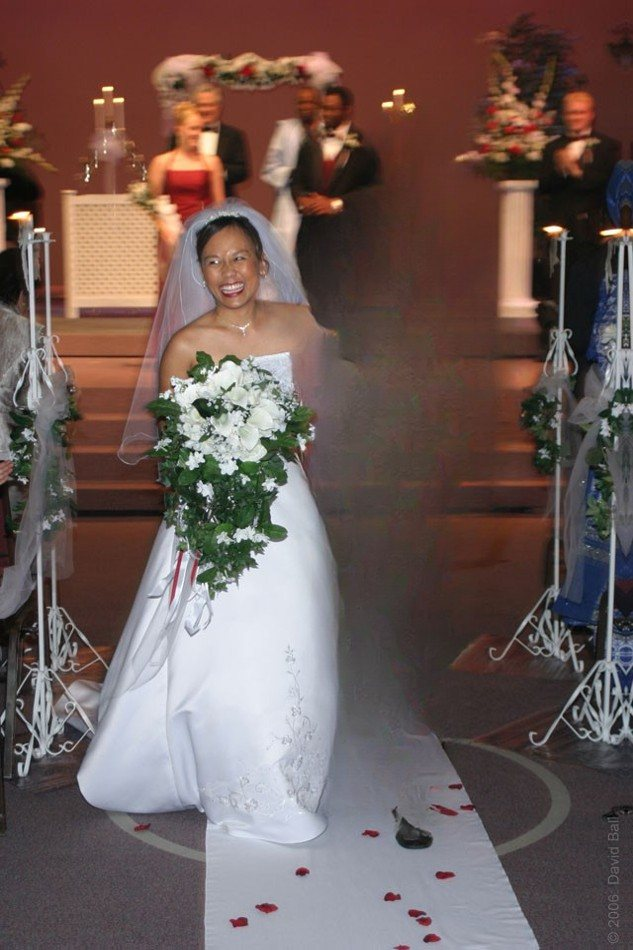
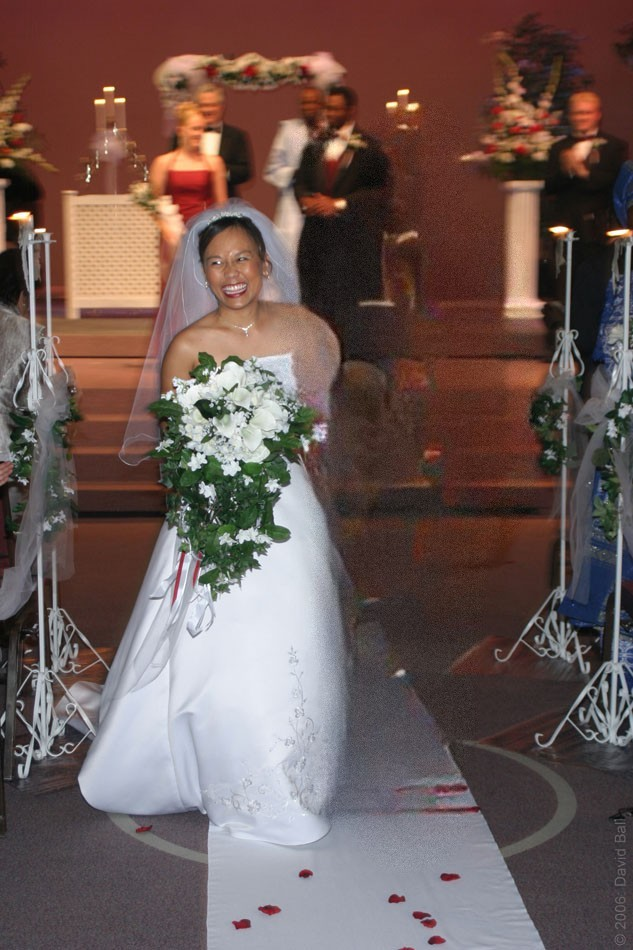
Rebuild missing background when erasing a person
Erase now runs LaMa on a square crop around the person at its 512 px
training size, then scales the fill up, matches the photo's grain and
blends it in. Lines and textures (pavement, pillars, walls) now carry
through the gap instead of smearing.

- Compared LaMa, MAT, MI-GAN and FcF on all four photos; LaMa was the
  only one that didn't invent objects
- Close-up can now be erased; silhouette kept as its own option
- New tools/make_proof.py rebuilds the proof images
- Updated proof page, case study, triage rules and prototype photos

Claude-Session: https://claude.ai/code/session_01CUi5X4udzphoF6QNiPwVRq

diff --git a/tools/erase_person.py b/tools/erase_person.py
@@ -5,7 +5,9 @@ Pipeline
   2. Pick the person: by position (left to right) for this demo. In the app,
      the person is chosen by face in onboarding.
   3. Edit:
-       erase       LaMa fills the person's outline with background
+       erase       LaMa rebuilds the background inside the person's outline,
+                   working on a crop at its native size so lines and
+                   textures carry through the gap
        silhouette  erase, then draw a soft outline where they stood
        crop        crop the frame so the person is outside it
   4. Label: the edited JPEG carries IPTC Digital Source Type
@@ -69,12 +71,57 @@ def hull(mask: np.ndarray) -> np.ndarray:
     return out
 
 
-def erase(image: Image.Image, mask: np.ndarray) -> Image.Image:
+FILL_SIZE = 512  # LaMa was trained near this size; it rebuilds structure best here
+CONTEXT = 1.6    # crop 1.6x the person's size so the model sees what surrounds them
+
+
+def fill_region(mask: np.ndarray, context: float = CONTEXT) -> tuple[int, int, int, int]:
+    """Square box around the masked area with room for surrounding context."""
+    ys, xs = np.nonzero(mask)
+    h, w = mask.shape
+    side = min(int(max(xs.max() - xs.min(), ys.max() - ys.min()) * context), max(w, h))
+    cx, cy = (xs.min() + xs.max()) // 2, (ys.min() + ys.max()) // 2
+    left = int(np.clip(cx - side // 2, 0, max(w - side, 0)))
+    top = int(np.clip(cy - side // 2, 0, max(h - side, 0)))
+    return left, top, min(left + side, w), min(top + side, h)
+
+
+def match_grain(fill: np.ndarray, reference: np.ndarray, known: np.ndarray, seed: int = 7) -> np.ndarray:
+    """Adds film grain to the fill to match the photo, so the patch isn't smoother than its surroundings."""
+    gray = cv2.cvtColor(reference, cv2.COLOR_RGB2GRAY).astype(np.float32)
+    detail = gray - cv2.GaussianBlur(gray, (0, 0), 1.2)
+    sigma = float(np.std(detail[known])) if known.any() else 0.0
+    noise = np.random.default_rng(seed).normal(0, sigma * 0.8, fill.shape[:2]).astype(np.float32)
+    return np.clip(fill.astype(np.float32) + noise[..., None], 0, 255)
+
+
+def erase(image: Image.Image, mask: np.ndarray, size: int = FILL_SIZE, context: float = CONTEXT) -> Image.Image:
+    """Rebuilds the background where the person stood.
+
+    LaMa fills large gaps with a blur when it runs on a full-size photo. Cropping
+    to the person plus their surroundings and filling at LaMa's own working size
+    lets it continue lines, edges and textures (pavement, pillars, railings)
+    through the gap. The fill is then scaled back up, given matching grain and
+    blended in with a soft edge.
+    """
     from simple_lama_inpainting import SimpleLama
 
-    lama = SimpleLama()
-    result = lama(image, Image.fromarray(mask * 255))
-    return result.resize(image.size)
+    src = np.array(image)
+    left, top, right, bottom = fill_region(mask, context)
+    crop, cmask = src[top:bottom, left:right], mask[top:bottom, left:right]
+    scale = min(size / max(crop.shape[:2]), 1.0)
+    small_size = (round(crop.shape[1] * scale), round(crop.shape[0] * scale))
+    small = cv2.resize(crop, small_size, interpolation=cv2.INTER_AREA)
+    small_mask = (cv2.resize(cmask.astype(np.uint8), small_size, interpolation=cv2.INTER_NEAREST) > 0).astype(np.uint8) * 255
+
+    filled = np.array(SimpleLama()(Image.fromarray(small), Image.fromarray(small_mask)))[: small.shape[0], : small.shape[1]]
+    filled = cv2.resize(filled, (crop.shape[1], crop.shape[0]), interpolation=cv2.INTER_CUBIC)
+    filled = match_grain(filled, crop, cmask == 0)
+
+    alpha = cv2.GaussianBlur(grow(cmask, 4).astype(np.float32), (0, 0), 5)[..., None]
+    out = src.astype(np.float32)
+    out[top:bottom, left:right] = crop * (1 - alpha) + filled * alpha
+    return Image.fromarray(np.clip(out, 0, 255).astype(np.uint8))
 
 
 def silhouette(image: Image.Image, mask: np.ndarray, grow_px: int = 18) -> Image.Image:
@@ -179,6 +226,7 @@ def main() -> None:
         "digital_source_type": source_type,
         "edited_at": datetime.now(timezone.utc).isoformat(timespec="seconds"),
         "touch_ups": args.touch_up or [],
+        "fill": {"method": "crop and fill at model size", "size": FILL_SIZE, "context": CONTEXT} if args.mode != "crop" else None,
         "models": ["yolov8n-seg (Ultralytics)", "big-lama (LaMa)"] if args.mode != "crop" else ["yolov8n-seg (Ultralytics)"],
     }
     (args.out / f"{stem}.json").write_text(json.dumps(record, indent=2))

diff --git a/tools/make_proof.py b/tools/make_proof.py
@@ -1,0 +1,49 @@
+"""Builds the proof images in demo/proof from demo/originals and demo/results.
+
+Each image shows three panels: the original, the outline the AI found, and the result.
+
+  python tools/make_proof.py
+"""
+
+from pathlib import Path
+
+from PIL import Image, ImageDraw, ImageFont
+
+ROOT = Path(__file__).resolve().parent.parent
+ORIGINALS, RESULTS, PROOF = ROOT / "demo/originals", ROOT / "demo/results", ROOT / "demo/proof"
+FONT = ImageFont.truetype(str(ROOT / "prototype/public/fonts/figtree-latin-400-normal.woff2"), 26)
+HEIGHT, LABEL, GAP = 520, 44, 20
+
+LABELS = {"erase": "Erase", "crop": "Crop", "silhouette": "Soft silhouette"}
+
+
+def panel_row(panels: list[tuple[str, Image.Image]]) -> Image.Image:
+    scaled = [(label, im.resize((round(im.width * HEIGHT / im.height), HEIGHT), Image.LANCZOS)) for label, im in panels]
+    width = sum(im.width for _, im in scaled) + GAP * (len(scaled) - 1)
+    sheet = Image.new("RGB", (width, HEIGHT + LABEL), "white")
+    draw = ImageDraw.Draw(sheet)
+    x = 0
+    for label, im in scaled:
+        sheet.paste(im, (x, LABEL))
+        draw.text((x + 4, 8), label, font=FONT, fill=(28, 24, 36))
+        x += im.width + GAP
+    return sheet
+
+
+def main() -> None:
+    PROOF.mkdir(exist_ok=True)
+    for result in sorted(RESULTS.glob("*.jpg")):
+        name, _, mode = result.stem.rpartition("-")
+        if mode not in LABELS:
+            continue
+        sheet = panel_row([
+            ("Original", Image.open(ORIGINALS / f"{name}.jpg").convert("RGB")),
+            ("Person found by the AI", Image.open(RESULTS / f"{name}-mask.jpg").convert("RGB")),
+            (f"Result: {LABELS[mode]}", Image.open(result).convert("RGB")),
+        ])
+        sheet.save(PROOF / result.name, quality=86)
+        print("Saved", PROOF / result.name)
+
+
+if __name__ == "__main__":
+    main()

diff --git a/demo/README.md b/demo/README.md
@@ -8,7 +8,7 @@ The set covers a range of ages, ethnicities and abilities: Black disabled friend
 
 1. **Find people.** YOLOv8 instance segmentation outlines every person in the photo.
 2. **Pick the person.** Here, by position. In the app, the person is chosen by face during onboarding.
-3. **Edit.** LaMa, an image-filling model, rebuilds the background where the person was. Crop and silhouette are the other options.
+3. **Edit.** LaMa, an image-filling model, rebuilds the background where the person was. It works on a square crop around the person, about 1.6 times their size, scaled to 512 pixels: the size LaMa was trained at. The fill is scaled back up, given grain that matches the photo, and blended in. Crop and silhouette are the other options.
 4. **Label.** Each edited JPEG carries the IPTC Digital Source Type `compositeWithTrainedAlgorithmicMedia` ("edited with generative AI") in its metadata, and a JSON edit record is saved beside it.
 
 Each image below shows the original, the outline the AI found, and the result.
@@ -19,7 +19,7 @@ Each image below shows the original, the outline the AI found, and the result.
 
 ![Original, outline, and result with the friend on the right erased](proof/friends-street-erase.jpg)
 
-The sidewalk, street and parked car are rebuilt where she was walking. The two friends stay exactly as they were.
+The curb, planter, tree trunk and building fronts continue through the space where she was walking. The two friends stay exactly as they were.
 
 ### Crop: same photo
 
@@ -31,25 +31,45 @@ When the person is at the edge of the frame, a crop leaves no trace at all.
 
 ![Original, outline, and result with the groom erased](proof/wedding-aisle-erase.jpg)
 
-The bride walks the aisle alone. The area where he stood is a little soft, because this source photo is small (633 × 950).
+The bride walks the aisle alone. The steps, candle stands and aisle runner carry through where he stood. One touch-up removed a shoe the outline missed. Through her veil there's still a faint trace of his shoulder, because the veil belongs to her and stays in the photo. This source photo is small (633 × 950), so the fill is softer than in the others.
 
 ### Erase with one touch-up: older couple walking
 
 ![Original, outline, and result with the man erased](proof/older-couple-walking-erase.jpg)
 
-The man was holding a hat outside his detected outline, so the first pass left it floating. One touch-up, a box over the hat, fixed it. This is why the app needs a "Missed a spot? Brush over it" tool. A small bit of his hand is still visible where they were holding hands.
+The man was holding a hat outside his detected outline, so the first pass left it floating. One touch-up, a box over the hat, fixed it. This is why the app needs a "Missed a spot? Brush over it" tool. The pillars, shop windows and paving now continue down the arcade where he walked. A small bit of his hand is still visible where they were holding hands.
 
-### Soft silhouette: close-up
+### Erase: close-up
+
+![Original, outline, and result with the man erased from the close-up](proof/older-couple-closeup-erase.jpg)
+
+Their heads touch, and he fills half the frame. The wall, the edge of the couch and the shadow behind her are rebuilt, and her face stays intact. A tighter outline (8 pixels instead of 18) kept the fill from cutting into her cheek.
+
+### Soft silhouette: same close-up
 
 ![Original, outline, and result with the man turned into a soft blurred shape](proof/older-couple-closeup-silhouette.jpg)
 
-Their heads touch, and he fills half the frame. Erasing him leaves a blurry patch, so the app suggests a silhouette for close-ups. Here he becomes a soft, frosted shape that can't be recognized, and she stays sharp.
+Some people want to keep a sense that someone was there. Here he becomes a soft, frosted shape that can't be recognized, and she stays sharp.
+
+## Rebuilding the missing pieces
+
+The first version of erase ran LaMa on the whole photo. On large gaps, that left a smear of nearby colors. Running the model on a crop at its training size lets it continue edges and textures through the gap instead.
+
+![Earlier fill compared with the new fill on the arcade photo](proof/fill-upgrade-older-couple-walking.jpg)
+
+![Earlier fill compared with the new fill on the close-up](proof/fill-upgrade-older-couple-closeup.jpg)
+
+![Earlier fill compared with the new fill on the street photo](proof/fill-upgrade-friends-street.jpg)
+
+Four open models were compared on all four photos, each run the same way: LaMa, MAT, MI-GAN and FcF. LaMa gave the most believable result every time. The other three often invented things that weren't there, like a red blob on the sidewalk or a stranger in the wedding aisle. For a healing app, an invented object is worse than a soft patch, so LaMa stays.
+
+The next step up is a diffusion model guided by the rest of the photo, such as Stable Diffusion inpainting or Apple's on-device image tools. Those can draw finer detail, but they're slower, larger and more likely to invent. They're worth testing for the App Store version, with the same rule: nothing new should appear in the photo.
 
 ## What this shows about the design
 
 - **Erase works well** when the person is separate from the others and the background is ordinary: streets, walls, floors.
 - **Crop is best** when the person is at the edge of the frame.
-- **Close-ups need a different answer.** The silhouette rule in the [triage screen](../docs/04-triage.md) holds up.
+- **Close-ups can now be erased.** Offer erase first, and keep the silhouette as an option for people who want a trace of the moment. The [triage screen](../docs/04-triage.md) rule now does this.
 - **A touch-up tool is necessary.** Things people hold (hats, bags, hands) can fall outside the outline.
 - **Larger, sharper photos give better fills.**
 
@@ -63,10 +83,13 @@ pip install --no-deps simple-lama-inpainting
 python tools/erase_person.py demo/originals/friends-street.jpg --list
 python tools/erase_person.py demo/originals/friends-street.jpg --person 4 --mode erase --out demo/results
 python tools/erase_person.py demo/originals/older-couple-walking.jpg --person 2 --touch-up 1085 590 1245 805 --out demo/results
+python tools/erase_person.py demo/originals/wedding-aisle.jpg --person 3 --touch-up 370 770 450 850 --out demo/results
+python tools/erase_person.py demo/originals/older-couple-closeup.jpg --person 2 --grow 8 --out demo/results
 python tools/erase_person.py demo/originals/older-couple-closeup.jpg --person 2 --mode silhouette --grow 24 --out demo/results
+python tools/make_proof.py   # rebuilds the images on this page
 ```
 
-The models download on the first run. Each edit takes about 30 seconds on a laptop CPU.
+The models download on the first run. After that, each edit takes about 10 seconds on a laptop CPU, most of it loading the models.
 
 ## Licenses
 

diff --git a/case-study.md b/case-study.md
@@ -41,7 +41,7 @@ The agent sorts photos into batches of 20 and suggests a mode for each one, with
 
 ## Proof that it works
 
-An open-source pipeline (YOLOv8 to find people, LaMa to fill in the background) removed one person from real, openly licensed photos of people of different ages, ethnicities and abilities. It worked well on people standing apart from others, and crops left no trace. Close-ups left a blur, which backs up the design rule to suggest a soft silhouette there. Things people held, like a hat, sometimes fell outside the outline, which shows the app needs a touch-up tool. [See the results](demo/README.md).
+An open-source pipeline (YOLOv8 to find people, LaMa to fill in the background) removed one person from real, openly licensed photos of people of different ages, ethnicities and abilities. It worked well on people standing apart from others, and crops left no trace. The first fill left a smear on large gaps. Running the fill model on a crop at its training size fixed that: pavement, pillars and walls now continue through the space where the person stood, even in a close-up. Of four open models tested, LaMa was the only one that didn't invent objects, which matters more than detail in a healing app. Things people held, like a hat, sometimes fell outside the outline, which shows the app needs a touch-up tool. [See the results](demo/README.md).
 
 ## Quality and accessibility
 

diff --git a/docs/04-triage.md b/docs/04-triage.md
@@ -21,7 +21,8 @@ The agent starts with the easiest photos: group shots and scenery. Close-up phot
 | [name] is near the edge of the frame | Crop | "They're near the edge, so a crop keeps the moment." |
 | Group photo with friends | Erase | "Everyone else in this photo stays as they are." |
 | Scenery or a simple background behind [name] | Erase | "The background is simple enough to fill in." |
-| Close-up of the two of you | Replace (silhouette) | "Erasing would leave a big gap. A soft silhouette keeps the shape of the moment." |
+| Close-up of the two of you | Erase, with silhouette offered | "I can rebuild the background behind you. If you'd like to keep a trace of the moment, try a soft silhouette instead." |
+| Close-up where your faces overlap | Replace (silhouette) | "Your faces overlap here, so erasing could change how you look. A soft silhouette keeps you exactly as you are." |
 | Only [name] is in the photo | Delete | "This photo is only of [name]. It goes to a final review before anything is deleted." |
 | Video or Live Photo | Fade | "Video editing is coming later, so this one will be faded for now." |
 | The face match is uncertain | Ask | "I'm not sure this is [name]. Is it?" (Yes · No) |
